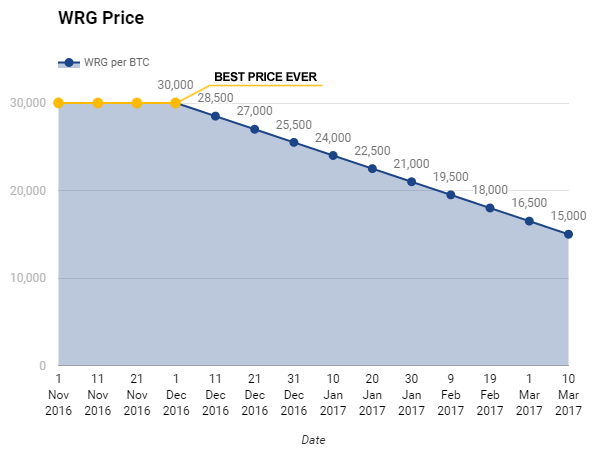
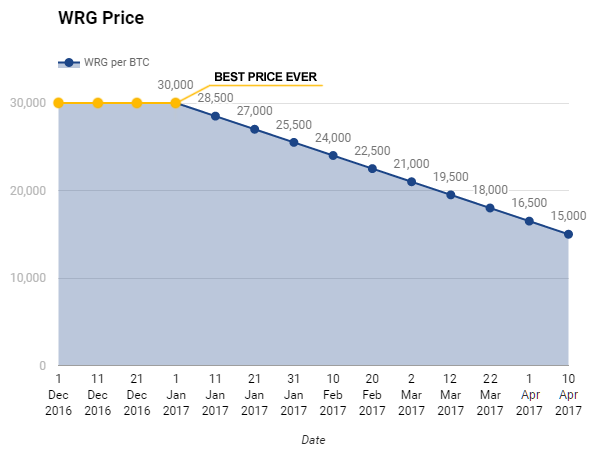
Extended offer upd

diff --git a/hub/offer/Terms_and_Conditions/index.html b/hub/offer/Terms_and_Conditions/index.html
@@ -79,8 +79,8 @@
         "@type": "Article",
         "name": "Timing of Sale",
         "articleBody": [
-        "The Presale will begin at 00:00 UTC on Tuesday November 1, 2016.",
-        "The Presale will run for 130 days and will end at 23:59:59 UTC on March 10, 2017.",
+        "The Presale will begin at 00:00 UTC on Thursday December 1, 2016.",
+        "The Presale will run for 130 days and will end at 23:59:59 UTC on April 10, 2017.",
         "webRunes reserves the right to change the date when the Presale will begin and further reserves the right to extend the sale duration for any reason, including the unavailability of the website https://webgold.wrioos.com or other unforeseen security or procedural issues. Though it does not currently anticipate doing so, webRunes also reserves the right to shorten the sale duration for any reason."
         ]
         },
@@ -437,7 +437,7 @@
         "@type": "Article",
         "name": "",
         "about": "webGold is a P2P decentralized cryptocurrency based on Ethereum Classic blockchain technology. It is identified either by symbol ⊙, or by WRG. Character 'R' in the abbreviation is a credit for the webRunes development team. The currency is distributed under Open Copyright license.",
-        "url": "https://webgold.wrioos.com?'https://webgold.wrioos.com':34,277"
+        "url": "https://webgold.wrioos.com?'https://webgold.wrioos.com':34,146"
         },
         {
         "@type": "Article",
